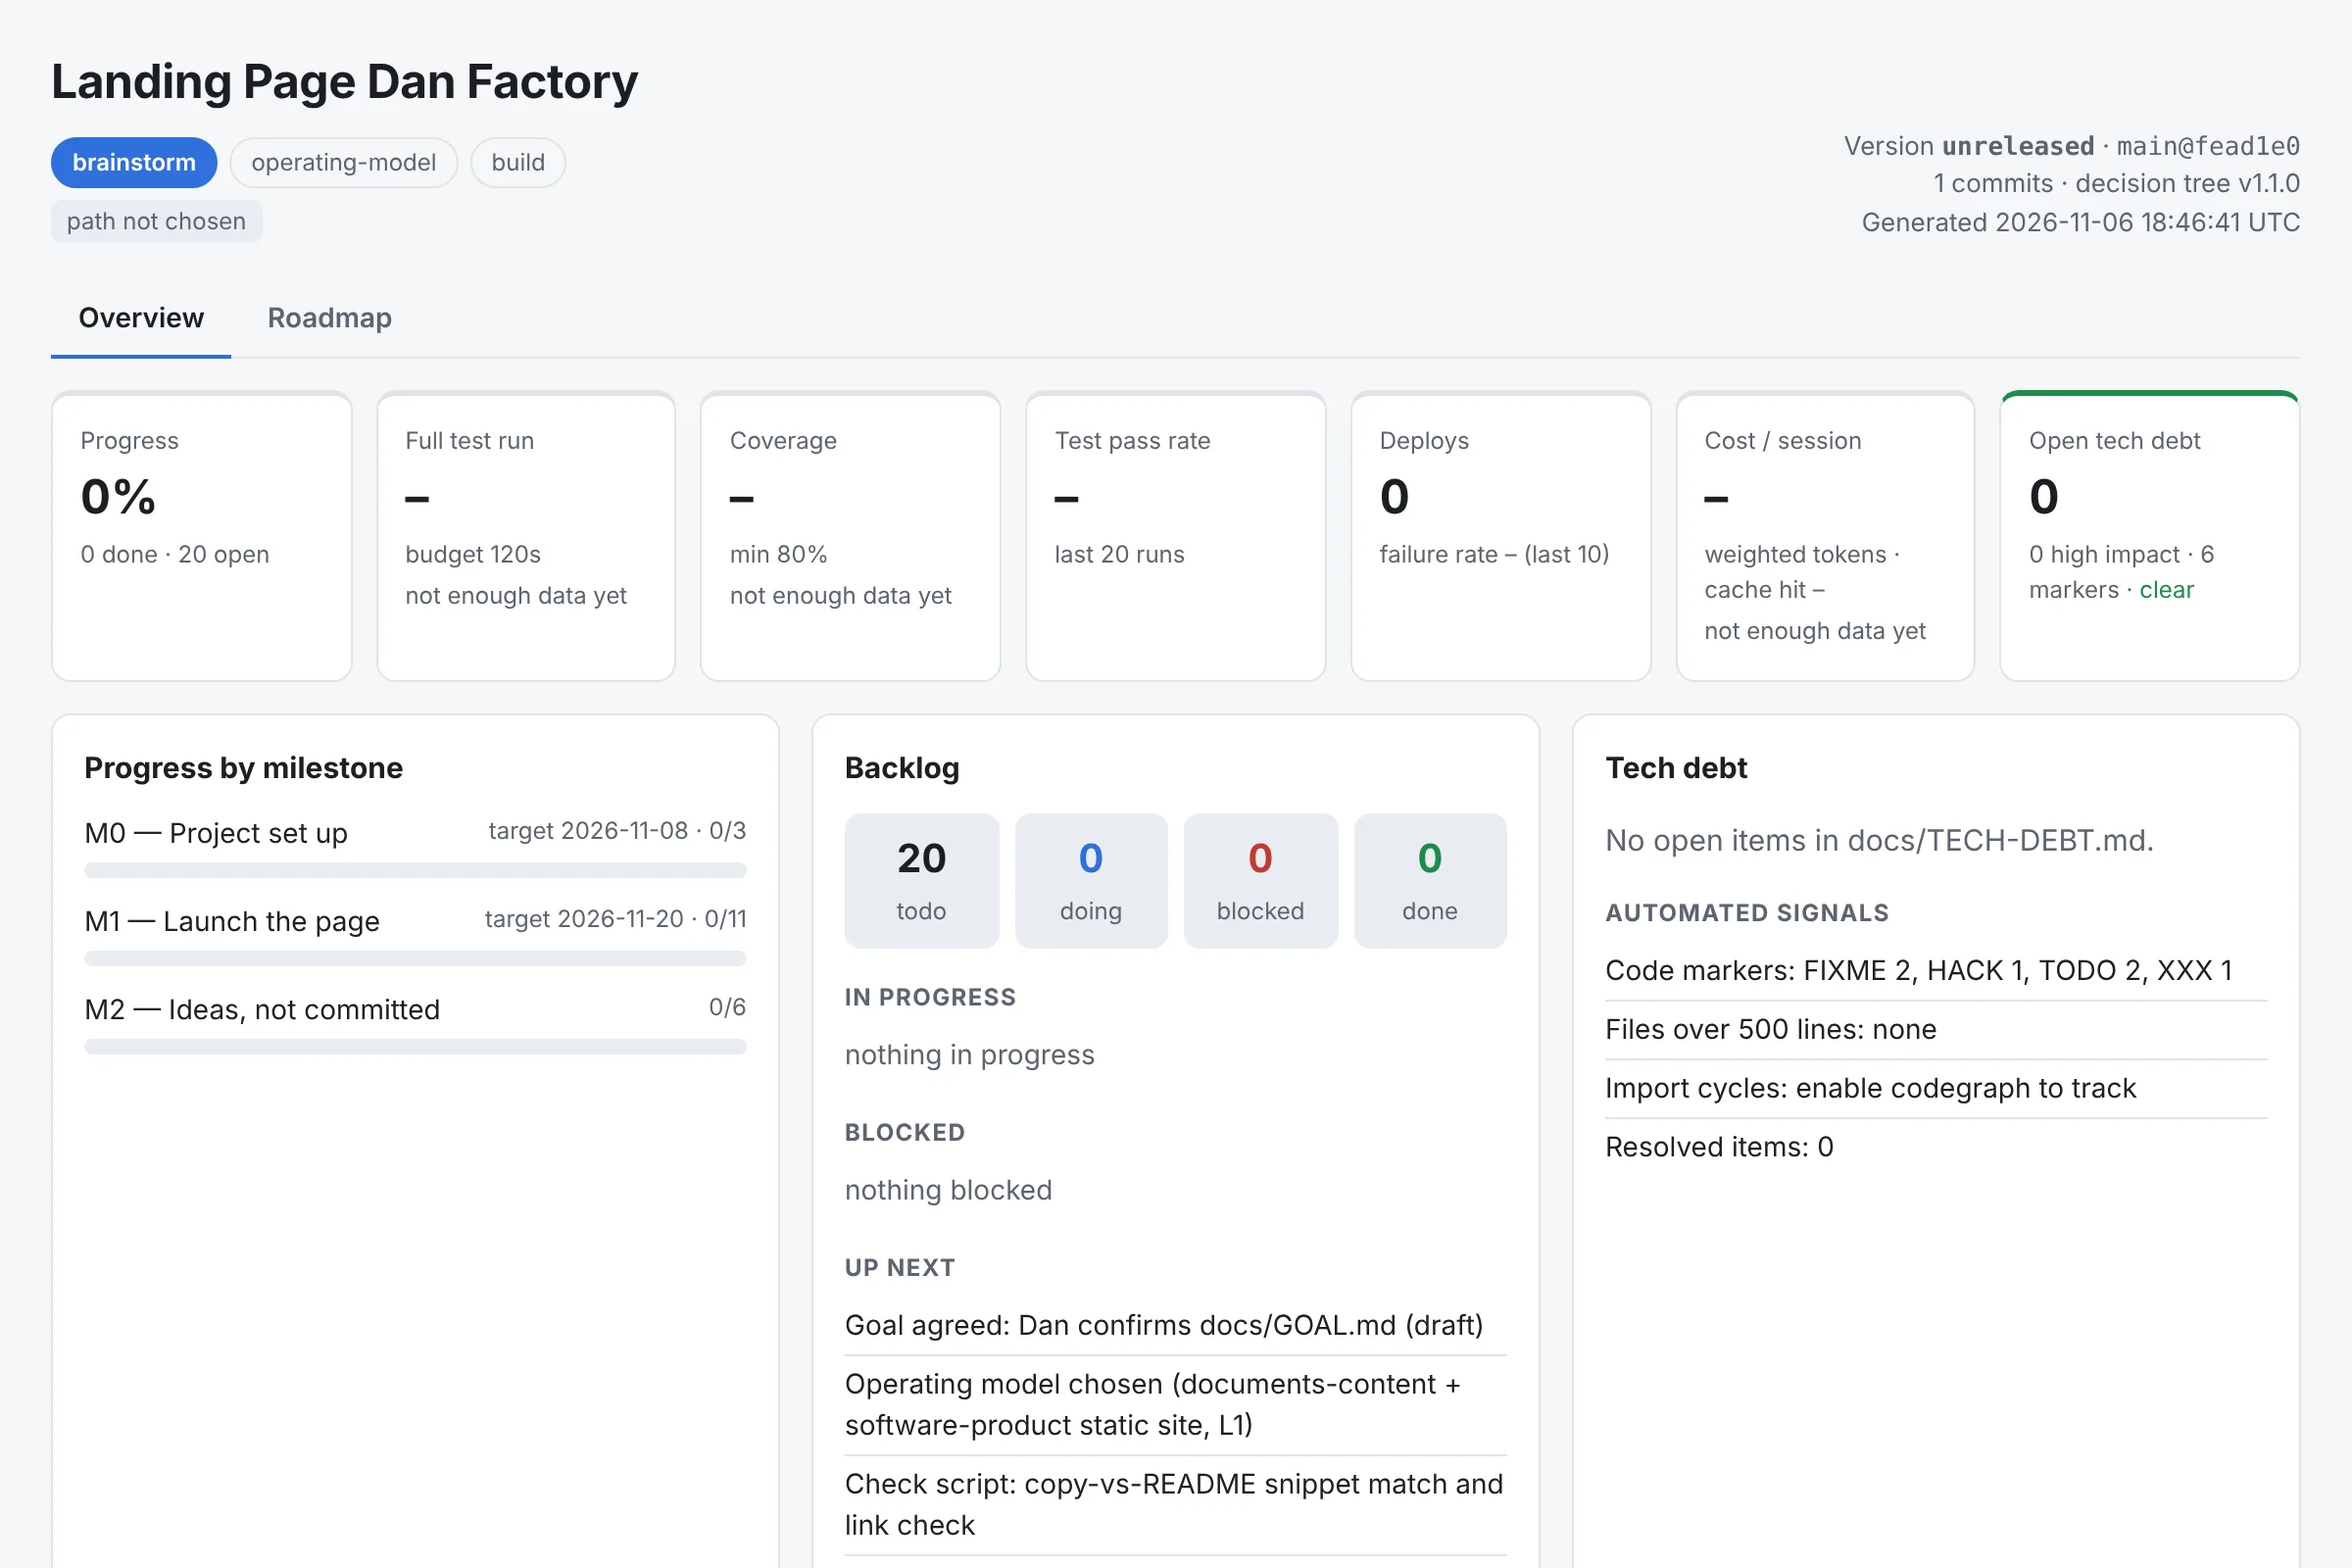
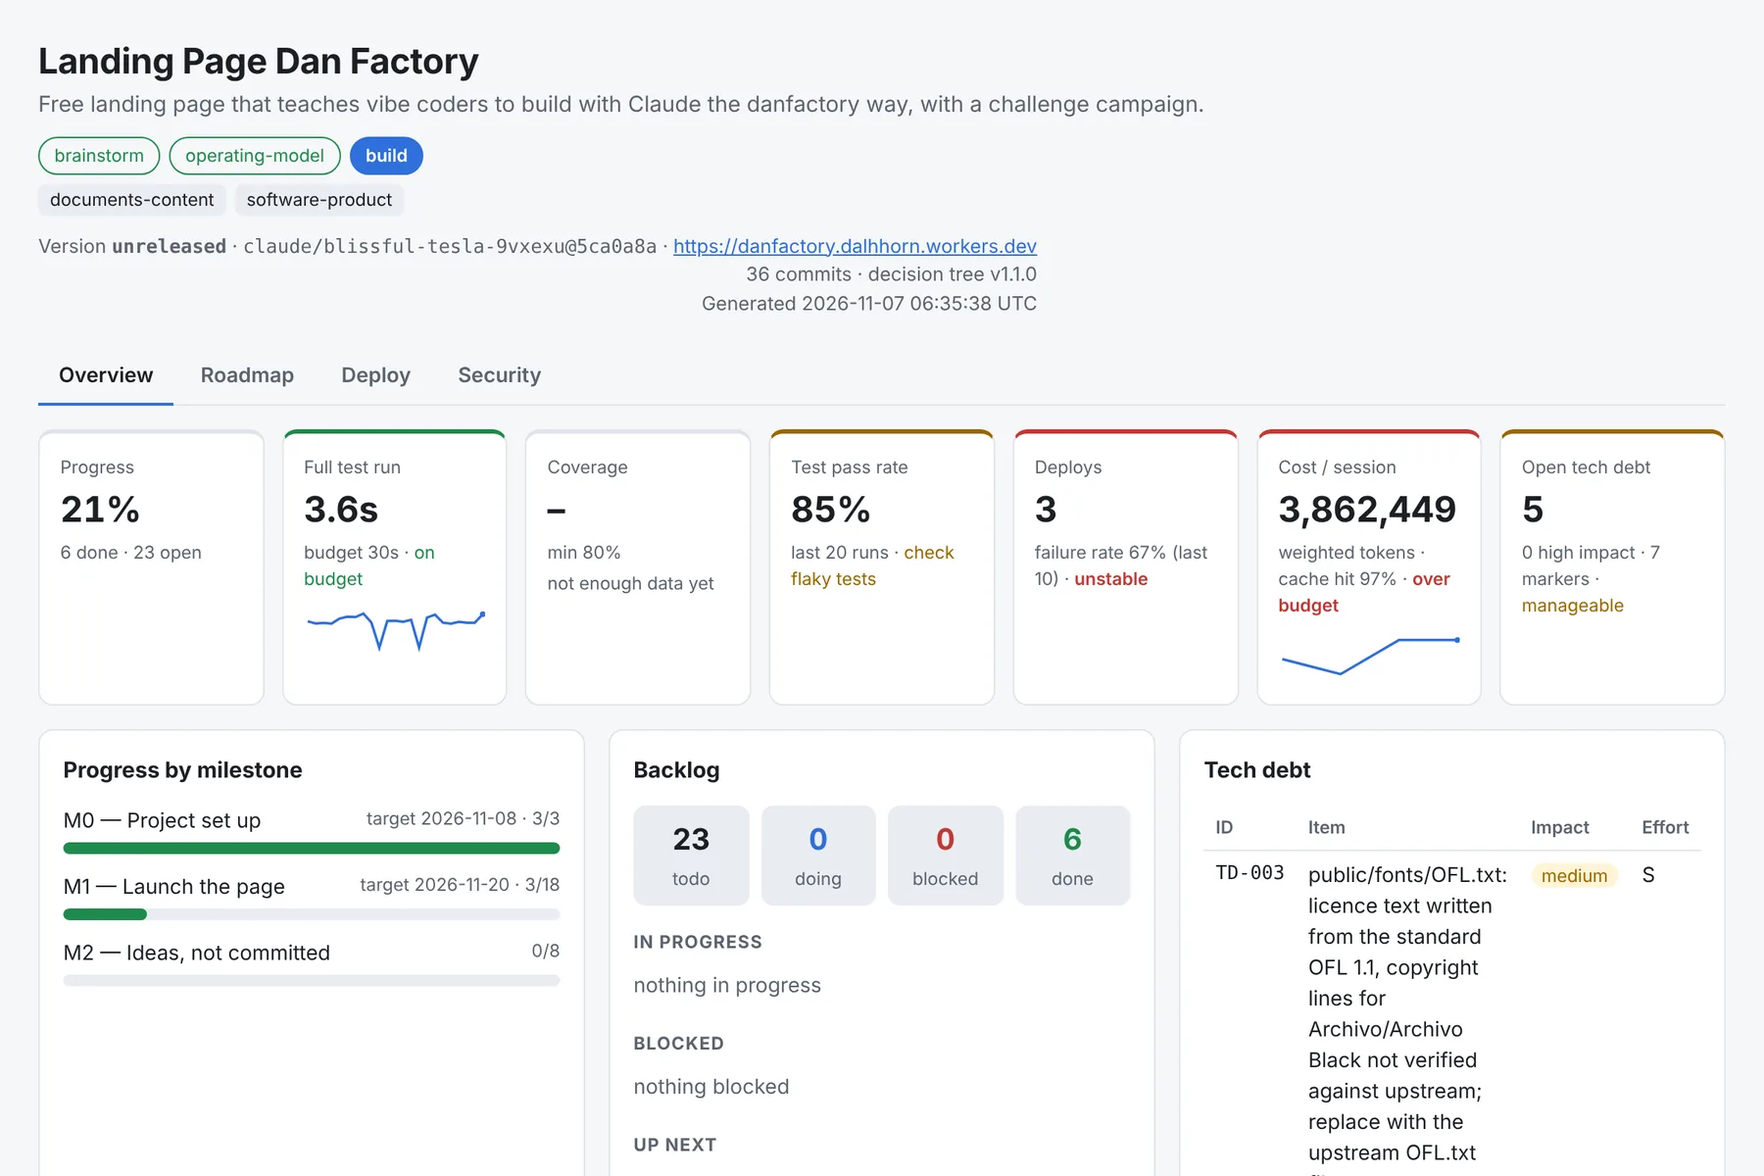
S4: dashboard section shows real Overview and Roadmap screenshots
- Replace the day-one screenshot with current Overview and Roadmap tab
  captures (1800x1200 webp, ~90 KB each, within the img and public budgets).
- Two figures side by side from 900px, stacked on phones; honest caption.
- dashboard.py: roadmap grid used min-width:max-content, so with few
  milestone columns item text ran off the card; min-content lets it wrap
  and still scrolls horizontally when there are many columns.

Claude-Session: https://claude.ai/code/session_01JD4gejYhDmG9ZKoYG7CvBu

diff --git a/public/index.html b/public/index.html
@@ -231,7 +231,8 @@ section.alt .tbl tbody tr:nth-child(even){background:var(--ground)}
 figure{margin:0}
 figure img{width:100%;height:auto;display:block;border:2px solid var(--rule)}
 figcaption{color:var(--ink-muted);font-size:var(--fs-small);margin-top:var(--space-4)}
-.real{margin-top:var(--space-12)}
+.real{margin-top:var(--space-12);display:grid;gap:var(--space-8)}
+@media (min-width:900px){.real{grid-template-columns:1fr 1fr}.real .note{grid-column:1/-1}}
 @media (min-width:900px){.dsec{grid-template-columns:1fr 1.2fr;gap:64px}}
 
 .tok{display:grid;grid-template-columns:1fr;gap:var(--space-8);margin-top:var(--space-12)}
@@ -476,9 +477,14 @@ footer a{color:var(--ink-muted);text-decoration:none}
     </div>
     <div class="real">
       <figure>
-        <img src="img/dashboard-overview.webp" width="2400" height="1600" loading="lazy" alt="Screenshot of the real danfactory dashboard for this landing page on day one: brainstorm phase, 0% progress, 20 open backlog items across milestones M0, M1 and M2, no tech debt.">
-        <figcaption>Dashboard of this landing page, generated by <code>scripts/dashboard.py</code> on its first commit.</figcaption>
+        <img src="img/dashboard-overview.webp" width="1800" height="1200" loading="lazy" alt="Screenshot of the real danfactory dashboard for this landing page, Overview tab: build phase, version unreleased, 21% progress (6 done, 23 open), test run 3.6s within a 30s budget, 85% test pass rate, 3 deploys with a 67% failure rate, weighted tokens per session over budget, 5 open tech-debt items, progress bars for milestones M0 to M2 and the backlog and tech-debt panels.">
+        <figcaption>Overview tab: versions, phase, progress, metrics with budget alerts, backlog and tech debt.</figcaption>
       </figure>
+      <figure>
+        <img src="img/dashboard-roadmap.webp" width="1800" height="1200" loading="lazy" alt="Screenshot of the Roadmap tab of the same dashboard: the product manager's proposed sequence, a Next up list of three items, and swimlanes with milestones M1, M2 and tech debt to schedule as columns and value-driven features as the first lane.">
+        <figcaption>Roadmap tab: the proposed sequence in swimlanes, user value vs technical foundation.</figcaption>
+      </figure>
+      <p class="note">Real screenshots of this landing page's own dashboard, generated by <code>scripts/dashboard.py</code> on 2026-11-07. The numbers are honest, including the red ones.</p>
     </div>
   </div>
 </section>

diff --git a/scripts/dashboard.py b/scripts/dashboard.py
@@ -733,7 +733,7 @@ a.live {{ font-size:20px; font-weight:650; overflow-wrap:anywhere; }}
 .kv {{ display:grid; grid-template-columns:max-content 1fr; gap:4px 16px; margin:12px 0 0; font-size:14px; }}
 .kv dt {{ color:var(--muted); }} .kv dd {{ margin:0; min-width:0; }}
 td.note {{ min-width:180px; overflow-wrap:anywhere; font-size:13px; color:var(--muted); }}
-.rm {{ --lane-w:minmax(150px,180px); --col-w:minmax(220px,1fr); display:grid; gap:8px; min-width:max-content;
+.rm {{ --lane-w:minmax(150px,180px); --col-w:minmax(220px,1fr); display:grid; gap:8px; min-width:min-content;
   grid-template-columns:var(--lane-w) repeat(var(--cols),var(--col-w)); }}
 .rm-col-h {{ display:flex; flex-direction:column; font-size:14px; padding:4px 2px; border-bottom:2px solid var(--border); }}
 .rm-lane-h {{ display:flex; flex-direction:column; justify-content:flex-start; font-size:14px; padding:10px; border-radius:8px; border-left:4px solid var(--accent); background:var(--track);

diff --git a/docs/BACKLOG.md b/docs/BACKLOG.md
@@ -15,7 +15,7 @@ Roadmap tab: item order here is the proposed sequence. Tag technical work `#foun
 > Sequence: proposed by product-manager 2026-11-06 — riskiest-first (dashboard visual, then truth of the copy), with deploy pulled forward so Dan can unblock the Cloudflare token and review on a live URL, then campaign/FAQ with TD-001 right behind them, and polish, dogfooding and the final truth pass last.
 - [x] Hero: headline, subline and GitHub CTA above the fold on mobile (S); one-click copy lives with the #start commands. AC: Given a phone viewport, when the page loads, then headline, subline and GitHub CTA are visible without scrolling.
 - [x] Challenge files 01-07 drafted in public/challenges/ (L). AC: each has goal, skills, danfactory features, time box, steps, done-when, proof.
-- [ ] Dashboard section with a real screenshot or faithful static mock generated from `python3 scripts/dashboard.py` output (M). AC: shows versions, progress, backlog, tech debt, metrics and the Roadmap tab; labeled as an example if mocked.
+- [x] Dashboard section with a real screenshot or faithful static mock generated from `python3 scripts/dashboard.py` output (M). AC: shows versions, progress, backlog, tech debt, metrics and the Roadmap tab; labeled as an example if mocked.
 - [x] Deploy to Cloudflare via git (S) #infra. AC: live URL; page served from the main branch push.
 - [ ] Problem, audience, 3-phase flow sections with final copy (M). AC: matches spec; every claim traceable to README/docs.
 - [ ] Agents, paths, token economy sections (M). AC: 18 agents, 8 paths plus adopt-existing, numbers match the repo.

diff --git a/docs/design/ARCHITECTURE.md b/docs/design/ARCHITECTURE.md
@@ -12,7 +12,7 @@ public/                      # the only thing deployed (Worker static assets)
   copy.js                    # ~1 KB progressive enhancement: copy buttons only (moved out of inline for CSP)
   _headers                   # security headers, text/plain for challenge .md, noindex until launch
   fonts/archivo-latin.woff2, archivo-black-latin.woff2, OFL.txt   # self-hosted, latin subset, licence added
-  img/dashboard-overview.webp  (+ img/og.png in the OG slice)
+  img/dashboard-overview.webp, img/dashboard-roadmap.webp  (+ img/og.png in the OG slice)
   challenges/01-setup.md … 07-retro-upstream.md   # source of truth, shipped byte-for-byte
 worker/index.ts              # cf_scaffold.py template, unchanged: /version (git sha), /health, else ASSETS
 wrangler.jsonc               # cf_scaffold.py: assets ./public, run_worker_first [/version,/health]
